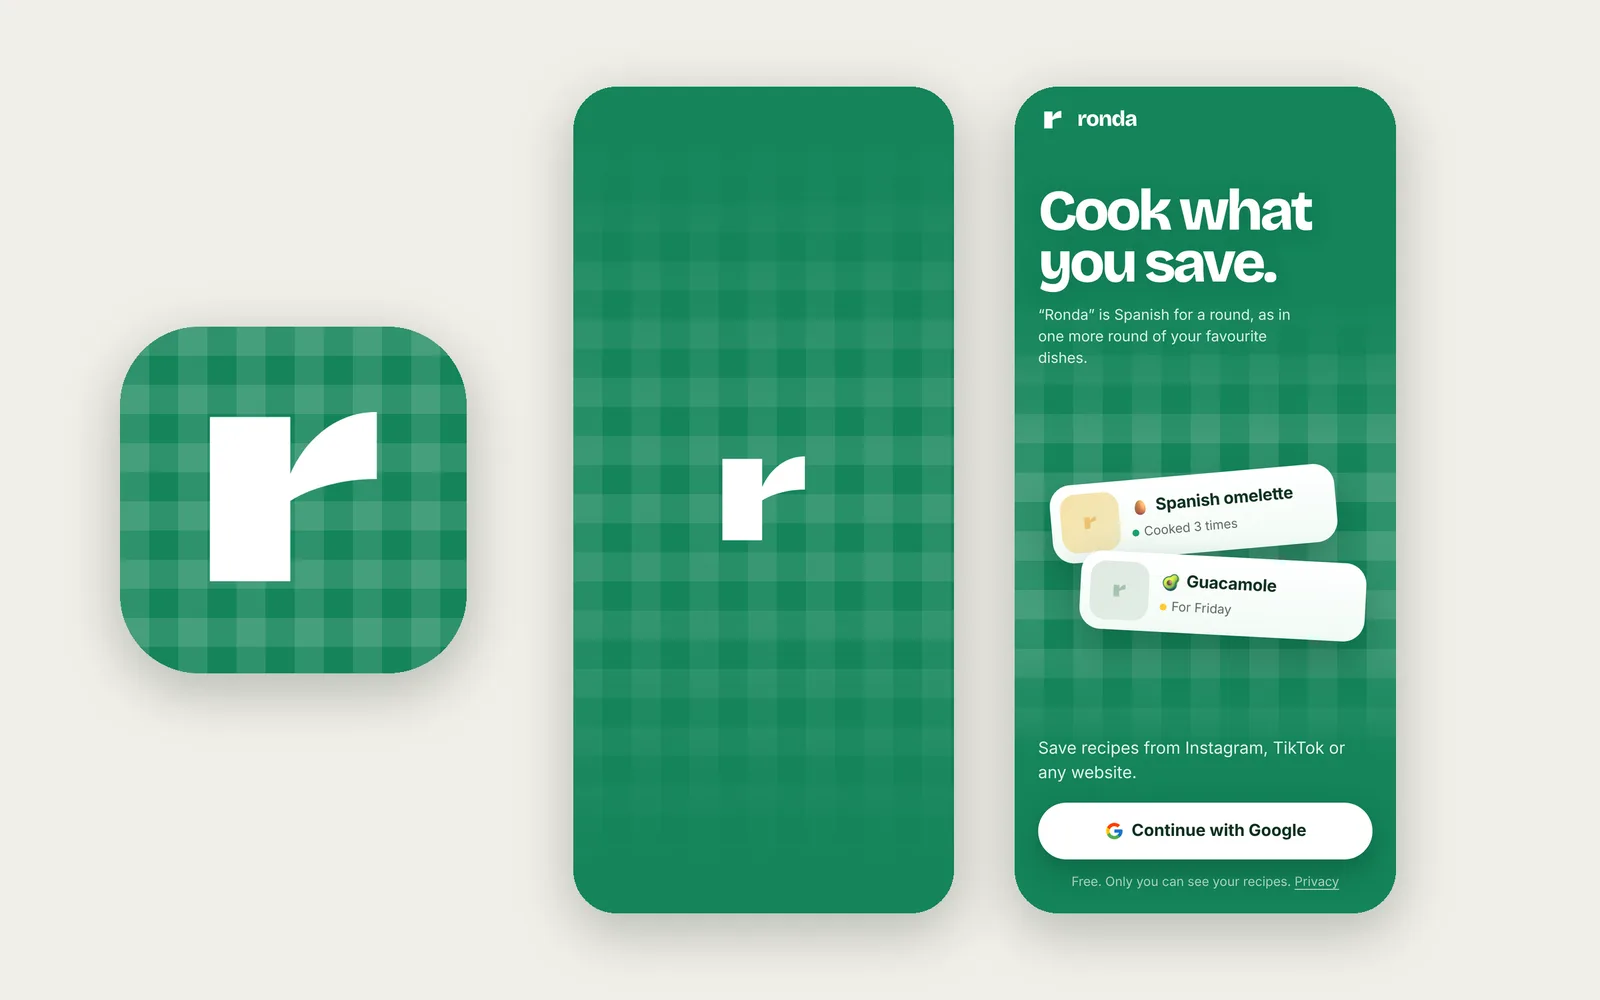
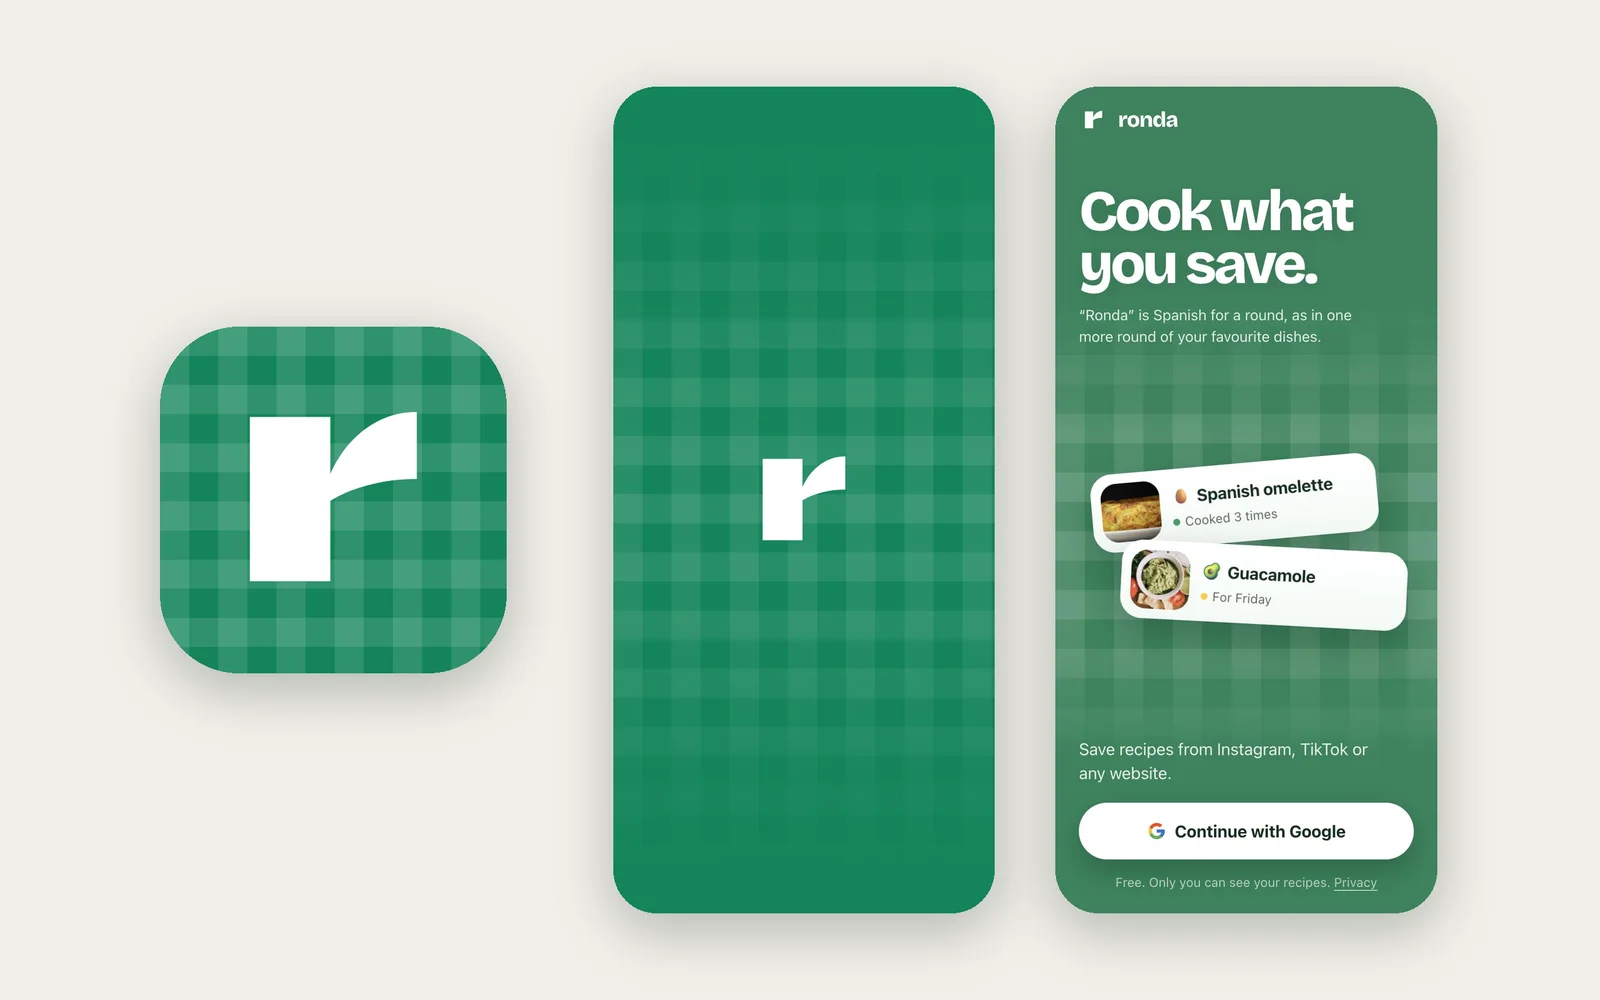
Ronda case study: import flow before/after, login screen with real photos
Claude-Session: https://claude.ai/code/session_01Quv4VpHUjhojSW38pWNX3M

diff --git a/studio/ronda/index.html b/studio/ronda/index.html
@@ -45,13 +45,13 @@
     <dl class="cs-meta"><div><dt>Role</dt><dd><span>Founder and product designer</span><span>Strategy, UX, brand</span></dd></div><div><dt>Built with</dt><dd><span>AI only: Claude and</span><span>specialist skills</span></dd></div><div><dt>Platform</dt><dd><span>PWA: iPhone, Android</span><span>and desktop</span></dd></div><div><dt>Stage</dt><dd><span>Closed beta</span><span>4 languages</span></dd></div></dl>
     <div class="kpis cs-kpis"><div class="kpi"><strong>1</strong>designer, 0 engineers</div><div class="kpi"><strong>100%</strong>of the code written by AI</div><div class="kpi"><strong>110 / 295</strong>imported recipes auto-repaired</div></div>
   </section>
-  <figure class="cs-cover" style="view-transition-name:cover-ronda"><img src="../../assets/ronda/cover-1600.webp?v=6" srcset="../../assets/ronda/cover-800.webp?v=6 800w, ../../assets/ronda/cover-1600.webp?v=6 1600w, ../../assets/ronda/cover-2400.webp?v=6 2400w" sizes="(max-width: 1500px) 100vw, 1440px" width="2400" height="1350" alt="Ronda on two iPhones: the profile with cooking stats and favourite dishes, and Fridge results for chocolate, flour and egg" fetchpriority="high"></figure>
+  <figure class="cs-cover" style="view-transition-name:cover-ronda"><img src="../../assets/ronda/cover-1600.webp?v=7" srcset="../../assets/ronda/cover-800.webp?v=7 800w, ../../assets/ronda/cover-1600.webp?v=7 1600w, ../../assets/ronda/cover-2400.webp?v=7 2400w" sizes="(max-width: 1500px) 100vw, 1440px" width="2400" height="1350" alt="Ronda on two iPhones: the profile with cooking stats and favourite dishes, and Fridge results for chocolate, flour and egg" fetchpriority="high"></figure>
   <nav class="cs-index" aria-label="In this case study"><p>In this case study</p><ol><li><a href="#opportunity">The opportunity</a></li><li><a href="#journey">User journey</a></li><li><a href="#strategy">Product strategy</a></li><li><a href="#decisions">Key decisions</a></li><li><a href="#growth">Growth and retention</a></li><li><a href="#product">The product</a></li><li><a href="#desktop">Desktop</a></li><li><a href="#identity">Brand</a></li><li><a href="#ai">Built solo with AI</a></li><li><a href="#next">What’s next</a></li></ol></nav>
   <article class="cs-body"><section class="cs-ch" id="opportunity"><h2>The opportunity</h2><div class="cs-text">
 <p class="cs-statement">People save hundreds of recipes. They cook almost none of them.</p>
 <p>Saving takes one tap; cooking from those saves doesn’t. And most weeknight meals are repeats: people rotate around twenty trusted dishes. Recipe apps optimise for discovery. <strong>The underserved job is cooking again.</strong></p>
 <blockquote><strong>Job to be done:</strong> when I’m deciding what to cook tonight, I want a dish I know works, with what I have, so I can start without thinking.</blockquote></div></section><section class="cs-ch" id="journey"><h2>User journey</h2><div class="cs-text">
-<p>I mapped the path from a saved post to a dish on repeat. Drop-off happens at three points: <strong>capture</strong> (messy captions), <strong>decide</strong> (decision fatigue) and <strong>repeat</strong> (favourites forgotten). Ronda is designed around those moments.</p></div><div class="cs-wide"><figure class="cs-fig"><img src="../../assets/ronda/journey-1600.webp?v=6" srcset="../../assets/ronda/journey-800.webp?v=6 800w, ../../assets/ronda/journey-1600.webp?v=6 1600w, ../../assets/ronda/journey-2400.webp?v=6 2400w" sizes="(max-width: 1500px) 100vw, 1440px" width="2400" height="1300" alt="User journey map with seven stages, from discovering a recipe to cooking it again, showing pains before Ronda and the Ronda moment at each stage" loading="lazy" decoding="async"></figure></div></section><section class="cs-ch" id="strategy"><h2>Product strategy</h2><div class="cs-text">
+<p>I mapped the path from a saved post to a dish on repeat. Drop-off happens at three points: <strong>capture</strong> (messy captions), <strong>decide</strong> (decision fatigue) and <strong>repeat</strong> (favourites forgotten). Ronda is designed around those moments.</p></div><div class="cs-wide"><figure class="cs-fig"><img src="../../assets/ronda/journey-1600.webp?v=7" srcset="../../assets/ronda/journey-800.webp?v=7 800w, ../../assets/ronda/journey-1600.webp?v=7 1600w, ../../assets/ronda/journey-2400.webp?v=7 2400w" sizes="(max-width: 1500px) 100vw, 1440px" width="2400" height="1300" alt="User journey map with seven stages, from discovering a recipe to cooking it again, showing pains before Ronda and the Ronda moment at each stage" loading="lazy" decoding="async"></figure></div></section><section class="cs-ch" id="strategy"><h2>Product strategy</h2><div class="cs-text">
 <p>A <strong>retention product, not a discovery one</strong>. <em>Ronda</em> means <em>a round</em> in Spanish, and the product is one loop:</p>
 <ul class="cs-points">
 <li><b>Save</b><span>Any link or a photo, cleaned into a usable recipe.</span></li>
@@ -59,13 +59,13 @@
 <li><b>Cook and log</b><span>Hands-free cooking mode; “I made it today”.</span></li>
 <li><b>Resurface</b><span>Cook counts and rhythm bring favourites back.</span></li>
 </ul>
-<p>North-star metric: <strong>recipes cooked per active user per week</strong>. Saves alone are a vanity metric.</p></div><div class="cs-wide"><figure class="cs-fig"><img src="../../assets/ronda/screens-core-1600.webp?v=6" srcset="../../assets/ronda/screens-core-800.webp?v=6 800w, ../../assets/ronda/screens-core-1600.webp?v=6 1600w, ../../assets/ronda/screens-core-2400.webp?v=6 2400w" sizes="(max-width: 1500px) 100vw, 1440px" width="2400" height="1500" alt="Ronda on iPhone: the recipe library, a brownie recipe with cook count and rating, and the step-by-step cooking mode" loading="lazy" decoding="async"></figure></div></section><section class="cs-ch" id="decisions"><h2>Key decisions</h2><div class="cs-text">
+<p>North-star metric: <strong>recipes cooked per active user per week</strong>. Saves alone are a vanity metric.</p></div><div class="cs-wide"><figure class="cs-fig"><img src="../../assets/ronda/screens-core-1600.webp?v=7" srcset="../../assets/ronda/screens-core-800.webp?v=7 800w, ../../assets/ronda/screens-core-1600.webp?v=7 1600w, ../../assets/ronda/screens-core-2400.webp?v=7 2400w" sizes="(max-width: 1500px) 100vw, 1440px" width="2400" height="1500" alt="Ronda on iPhone: the recipe library, a brownie recipe with cook count and rating, and the step-by-step cooking mode" loading="lazy" decoding="async"></figure></div></section><section class="cs-ch" id="decisions"><h2>Key decisions</h2><div class="cs-text">
 <h3>Navigation by frequency of use</h3>
 <p>Cooking a favourite is the most frequent task, so Favourites got a tab; the weekly shopping list moved inside Plan.</p>
 <h3>Fridge: start from what you have</h3>
 <p>Pick ingredients, see recipes with <strong>everything you have</strong>, then those <strong>missing one thing</strong>. A strict filter returned almost nothing; partial matches always give a next step.</p>
 <h3>Activation depends on import quality</h3>
-<p>The first imported recipe is the activation moment. A repair pipeline cleans every import and <strong>fixed 110 of 295</strong> recipes in a real collection.</p></div><div class="cs-wide"><figure class="cs-fig"><img src="../../assets/ronda/screens-fridge-1600.webp?v=6" srcset="../../assets/ronda/screens-fridge-800.webp?v=6 800w, ../../assets/ronda/screens-fridge-1600.webp?v=6 1600w, ../../assets/ronda/screens-fridge-2400.webp?v=6 2400w" sizes="(max-width: 1500px) 100vw, 1440px" width="2400" height="1500" alt="The Fridge tab: chosen ingredients, most-used ingredients with counts, and recipes that use everything selected" loading="lazy" decoding="async"></figure></div></section><section class="cs-ch" id="growth"><h2>Growth and retention</h2><div class="cs-text">
+<p>The first imported recipe is the activation moment. A repair pipeline cleans every import and <strong>fixed 110 of 295</strong> recipes in a real collection.</p></div><div class="cs-wide"><figure class="cs-fig"><img src="../../assets/ronda/screens-fridge-1600.webp?v=7" srcset="../../assets/ronda/screens-fridge-800.webp?v=7 800w, ../../assets/ronda/screens-fridge-1600.webp?v=7 1600w, ../../assets/ronda/screens-fridge-2400.webp?v=7 2400w" sizes="(max-width: 1500px) 100vw, 1440px" width="2400" height="1500" alt="The Fridge tab: chosen ingredients, most-used ingredients with counts, and recipes that use everything selected" loading="lazy" decoding="async"></figure></div><div class="cs-wide"><figure class="cs-fig"><img src="../../assets/ronda/import-1600.webp?v=7" srcset="../../assets/ronda/import-800.webp?v=7 800w, ../../assets/ronda/import-1600.webp?v=7 1600w, ../../assets/ronda/import-2400.webp?v=7 2400w" sizes="(max-width: 1500px) 100vw, 1440px" width="2400" height="1400" alt="Import flow: a messy Instagram caption with the title after a promo and fourteen ingredients on one line, turned by Ronda into a clean recipe with the right title, servings and one ingredient per line" loading="lazy" decoding="async"></figure></div></section><section class="cs-ch" id="growth"><h2>Growth and retention</h2><div class="cs-text">
 <ul class="cs-points">
 <li><b>No empty first run</b><span>New accounts start with example recipes, already rated and cooked.</span></li>
 <li><b>Re-engagement</b><span>A weekly planning reminder at the time each user picks.</span></li>
@@ -80,9 +80,9 @@
 <li><b>Plan and shop</b><span>Weekly plan, ideas due again, list grouped by aisle.</span></li>
 <li><b>Profile</b><span>Cooking stats, what you cook most, monthly history.</span></li>
 <li><b>Platform</b><span>Push reminders, auto-translated recipes, full desktop layout.</span></li>
-</ul></div><div class="cs-wide"><figure class="cs-fig"><img src="../../assets/ronda/mockup-cook-1600.webp?v=6" srcset="../../assets/ronda/mockup-cook-800.webp?v=6 800w, ../../assets/ronda/mockup-cook-1600.webp?v=6 1600w, ../../assets/ronda/mockup-cook-2400.webp?v=6 2400w" sizes="(max-width: 1500px) 100vw, 1440px" width="2400" height="1500" alt="Ronda on two iPhones: a brownie recipe with its rating and cook count, and the step-by-step cooking mode" loading="lazy" decoding="async"></figure></div></section><section class="cs-ch" id="desktop"><h2>Desktop</h2><div class="cs-text">
-<p>Planning often happens on a laptop. On large screens the tab bar becomes a sidebar, ingredients sit beside the method, and every gesture has a mouse and keyboard twin.</p></div><div class="cs-wide"><figure class="cs-fig"><img src="../../assets/ronda/screens-desktop-1600.webp?v=6" srcset="../../assets/ronda/screens-desktop-800.webp?v=6 800w, ../../assets/ronda/screens-desktop-1600.webp?v=6 1600w, ../../assets/ronda/screens-desktop-2400.webp?v=6 2400w" sizes="(max-width: 1500px) 100vw, 1440px" width="2400" height="1500" alt="Ronda on desktop: sidebar navigation, recipe photo beside the title, ingredients beside the method" loading="lazy" decoding="async"></figure></div></section><section class="cs-ch" id="identity"><h2>Brand</h2><div class="cs-text">
-<p><strong>A green gingham tablecloth</strong> from icon to launch screen, and a single lowercase <em>r</em> in Syne, legible at 16 px.</p></div><div class="cs-wide"><figure class="cs-fig"><img src="../../assets/ronda/identity-1600.webp?v=6" srcset="../../assets/ronda/identity-800.webp?v=6 800w, ../../assets/ronda/identity-1600.webp?v=6 1600w, ../../assets/ronda/identity-2400.webp?v=6 2400w" sizes="(max-width: 1500px) 100vw, 1440px" width="2400" height="1500" alt="Ronda app icon, launch screen and sign-in screen, all on the green gingham tablecloth" loading="lazy" decoding="async"></figure></div></section><section class="cs-ch" id="ai"><h2>Built solo with AI</h2><div class="cs-text">
+</ul></div><div class="cs-wide"><figure class="cs-fig"><img src="../../assets/ronda/mockup-cook-1600.webp?v=7" srcset="../../assets/ronda/mockup-cook-800.webp?v=7 800w, ../../assets/ronda/mockup-cook-1600.webp?v=7 1600w, ../../assets/ronda/mockup-cook-2400.webp?v=7 2400w" sizes="(max-width: 1500px) 100vw, 1440px" width="2400" height="1500" alt="Ronda on two iPhones: a brownie recipe with its rating and cook count, and the step-by-step cooking mode" loading="lazy" decoding="async"></figure></div></section><section class="cs-ch" id="desktop"><h2>Desktop</h2><div class="cs-text">
+<p>Planning often happens on a laptop. On large screens the tab bar becomes a sidebar, ingredients sit beside the method, and every gesture has a mouse and keyboard twin.</p></div><div class="cs-wide"><figure class="cs-fig"><img src="../../assets/ronda/screens-desktop-1600.webp?v=7" srcset="../../assets/ronda/screens-desktop-800.webp?v=7 800w, ../../assets/ronda/screens-desktop-1600.webp?v=7 1600w, ../../assets/ronda/screens-desktop-2400.webp?v=7 2400w" sizes="(max-width: 1500px) 100vw, 1440px" width="2400" height="1500" alt="Ronda on desktop: sidebar navigation, recipe photo beside the title, ingredients beside the method" loading="lazy" decoding="async"></figure></div></section><section class="cs-ch" id="identity"><h2>Brand</h2><div class="cs-text">
+<p><strong>A green gingham tablecloth</strong> from icon to launch screen, and a single lowercase <em>r</em> in Syne, legible at 16 px.</p></div><div class="cs-wide"><figure class="cs-fig"><img src="../../assets/ronda/identity-1600.webp?v=7" srcset="../../assets/ronda/identity-800.webp?v=7 800w, ../../assets/ronda/identity-1600.webp?v=7 1600w, ../../assets/ronda/identity-2400.webp?v=7 2400w" sizes="(max-width: 1500px) 100vw, 1440px" width="2400" height="1500" alt="Ronda app icon, launch screen and sign-in screen, all on the green gingham tablecloth" loading="lazy" decoding="async"></figure></div></section><section class="cs-ch" id="ai"><h2>Built solo with AI</h2><div class="cs-text">
 <p class="cs-statement">One designer, no engineers. 100% of the code written by AI.</p>
 <p>I owned strategy, UX, brand and every product decision; Claude did the engineering. I worked through <strong>skills</strong>, specialist instructions for each phase:</p>
 <ul>

diff --git a/studio/index.html b/studio/index.html
@@ -44,7 +44,7 @@
 
   <section class="section studio-group" aria-labelledby="sg-0">
     <div class="sg-head"><h2 id="sg-0">Products I build with AI</h2><p>Live, working apps I take from idea to launch <strong>on my own</strong>: strategy, UX and brand by me, every line of code written with AI. Not concepts, shipped products.</p></div>
-    <div class="earlier"><a class="small" href="../studio/ronda/"><div class="media"><img src="../assets/ronda/cover-800.webp?v=6" srcset="../assets/ronda/cover-800.webp?v=6 800w, ../assets/ronda/cover-1600.webp?v=6 1600w" sizes="(max-width: 600px) 100vw, (max-width: 900px) 50vw, 380px" width="1600" height="1000" alt="" loading="lazy" decoding="async"></div><b>Ronda recipe app <svg class="ic" viewBox="0 0 24 24" fill="none" stroke="currentColor" stroke-width="2" stroke-linecap="round" stroke-linejoin="round" aria-hidden="true"><path d="M5 12h14M13 6l6 6-6 6"/></svg></b><span>Designed and built solo, entirely with AI</span></a></div>
+    <div class="earlier"><a class="small" href="../studio/ronda/"><div class="media"><img src="../assets/ronda/cover-800.webp?v=7" srcset="../assets/ronda/cover-800.webp?v=7 800w, ../assets/ronda/cover-1600.webp?v=7 1600w" sizes="(max-width: 600px) 100vw, (max-width: 900px) 50vw, 380px" width="1600" height="1000" alt="" loading="lazy" decoding="async"></div><b>Ronda recipe app <svg class="ic" viewBox="0 0 24 24" fill="none" stroke="currentColor" stroke-width="2" stroke-linecap="round" stroke-linejoin="round" aria-hidden="true"><path d="M5 12h14M13 6l6 6-6 6"/></svg></b><span>Designed and built solo, entirely with AI</span></a></div>
   </section>
   <section class="section studio-group" aria-labelledby="sg-1">
     <div class="sg-head"><h2 id="sg-1">Websites and UI</h2><p>No-code websites and interfaces for small businesses, <strong>from the first sketch to launch</strong>.</p></div>

diff --git a/_src/build.py b/_src/build.py
@@ -589,7 +589,7 @@ STUDIO_GROUPS = [
 ]
 
 
-RONDA_CARD = f'''<a class="small" href="@@/studio/ronda/"><div class="media"><img src="@@/assets/ronda/cover-800.webp?v=6" srcset="@@/assets/ronda/cover-800.webp?v=6 800w, @@/assets/ronda/cover-1600.webp?v=6 1600w" sizes="(max-width: 600px) 100vw, (max-width: 900px) 50vw, 380px" width="1600" height="1000" alt="" loading="lazy" decoding="async"></div><b>Ronda recipe app {ARROW}</b><span>Designed and built solo, entirely with AI</span></a>'''
+RONDA_CARD = f'''<a class="small" href="@@/studio/ronda/"><div class="media"><img src="@@/assets/ronda/cover-800.webp?v=7" srcset="@@/assets/ronda/cover-800.webp?v=7 800w, @@/assets/ronda/cover-1600.webp?v=7 1600w" sizes="(max-width: 600px) 100vw, (max-width: 900px) 50vw, 380px" width="1600" height="1000" alt="" loading="lazy" decoding="async"></div><b>Ronda recipe app {ARROW}</b><span>Designed and built solo, entirely with AI</span></a>'''
 
 
 def studio():
@@ -1079,7 +1079,7 @@ def case_page(key, p, back, back_label, nxt, nxt_href, kind):
 
 
 # ---------- Ronda: a product I design and build (hand-written, not from the Squarespace export) ----------
-RONDA_V = 6
+RONDA_V = 7
 RONDA = dict(slug='ronda', title='Ronda', alt='Ronda on two iPhones: the profile with cooking stats and favourite dishes, and Fridge results for chocolate, flour and egg')
 
 
@@ -1157,7 +1157,7 @@ def ronda_page(nxt):
     figs = {
         'journey': f'<div class="cs-wide"><figure class="cs-fig">{rimg("journey", "User journey map with seven stages, from discovering a recipe to cooking it again, showing pains before Ronda and the Ronda moment at each stage", 2400, 1300)}</figure></div>',
         'strategy': fig('screens-core', 'Ronda on iPhone: the recipe library, a brownie recipe with cook count and rating, and the step-by-step cooking mode'),
-        'decisions': fig('screens-fridge', 'The Fridge tab: chosen ingredients, most-used ingredients with counts, and recipes that use everything selected'),
+        'decisions': fig('screens-fridge', 'The Fridge tab: chosen ingredients, most-used ingredients with counts, and recipes that use everything selected') + f'<div class="cs-wide"><figure class="cs-fig">{rimg("import", "Import flow: a messy Instagram caption with the title after a promo and fourteen ingredients on one line, turned by Ronda into a clean recipe with the right title, servings and one ingredient per line", 2400, 1400)}</figure></div>',
         'product': fig('mockup-cook', 'Ronda on two iPhones: a brownie recipe with its rating and cook count, and the step-by-step cooking mode'),
         'desktop': fig('screens-desktop', 'Ronda on desktop: sidebar navigation, recipe photo beside the title, ingredients beside the method'),
         'identity': fig('identity', 'Ronda app icon, launch screen and sign-in screen, all on the green gingham tablecloth'),
